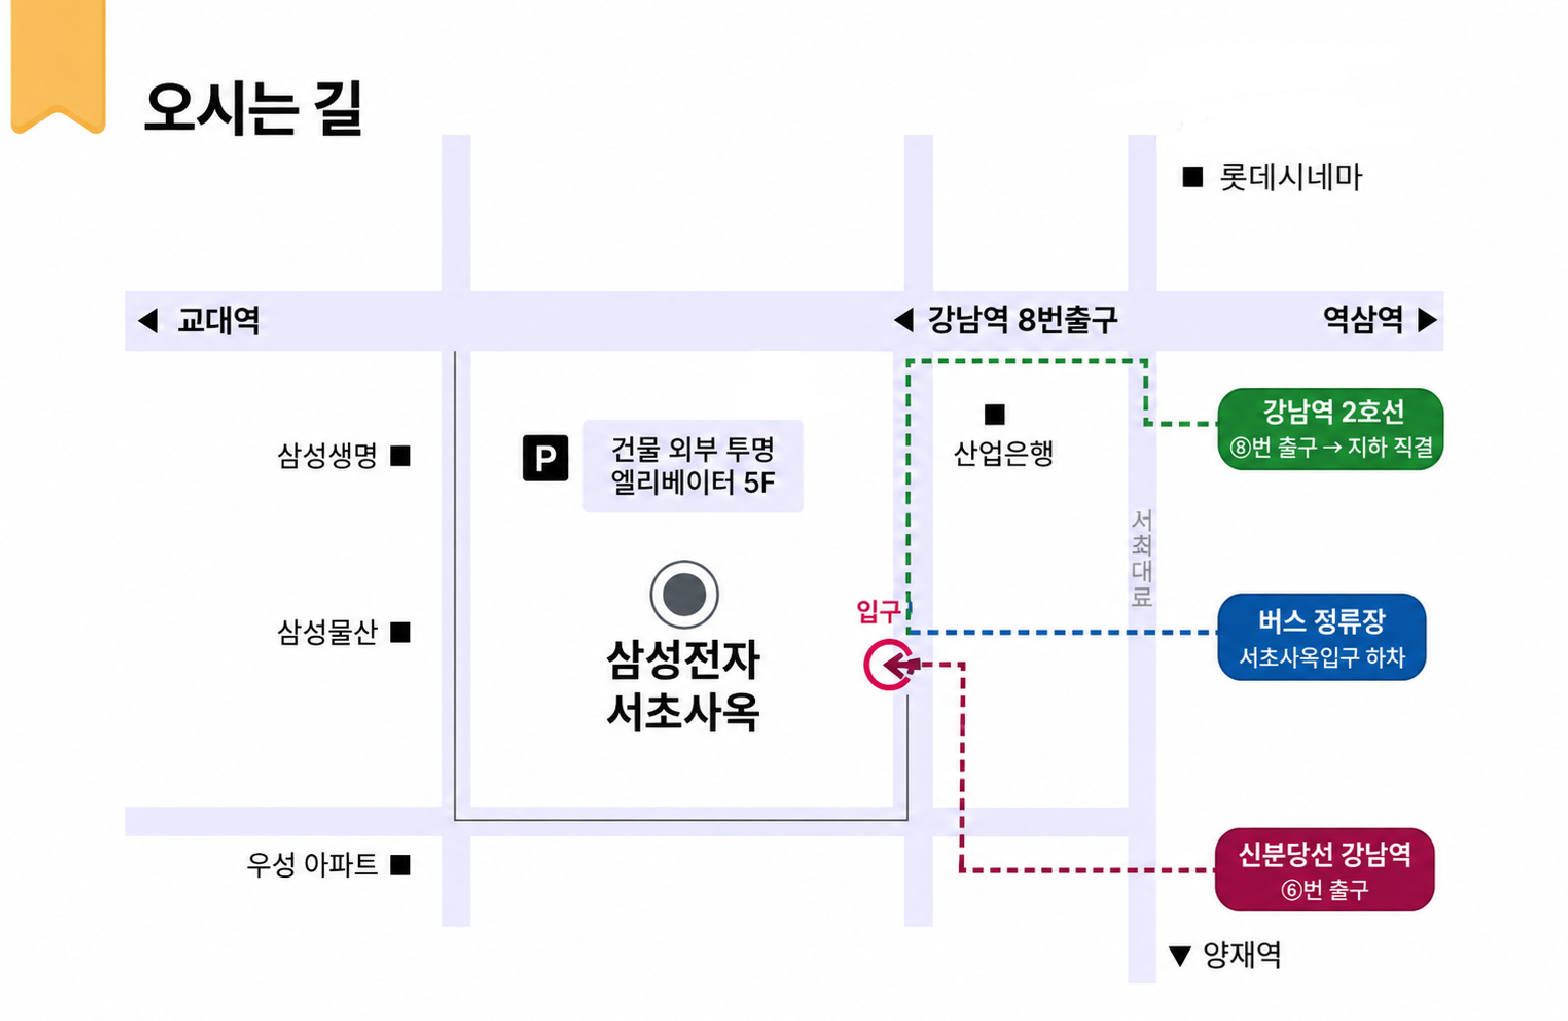
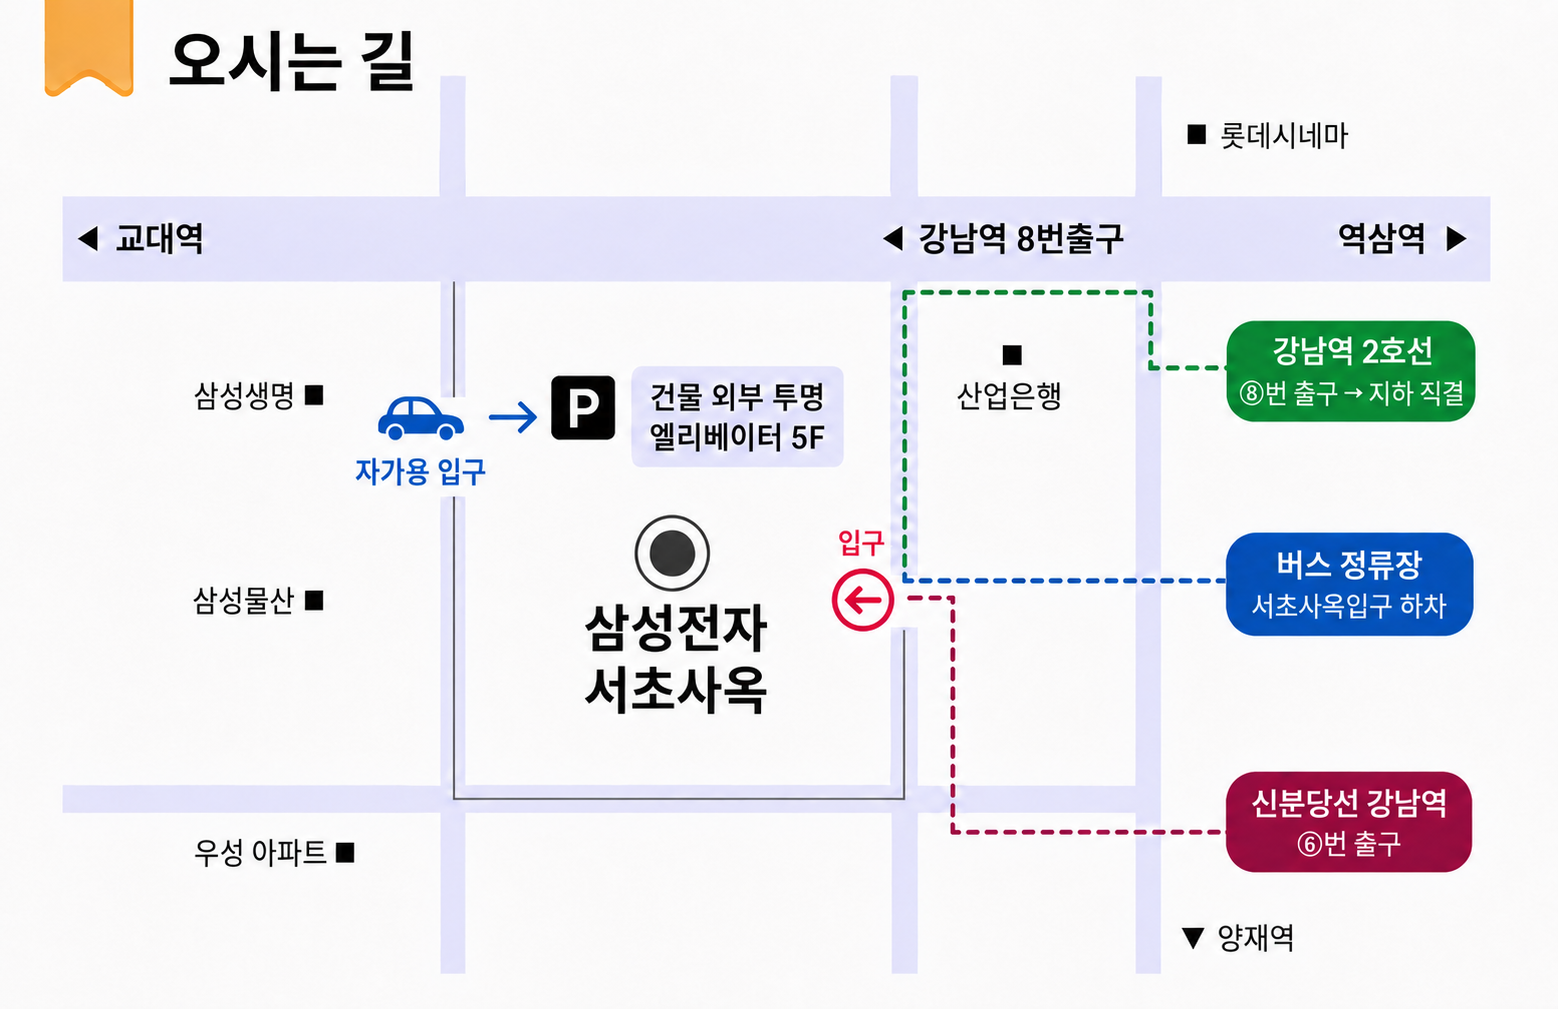
일단 몇개라도 살린다...

diff --git a/src/components/Rsvp.tsx b/src/components/Rsvp.tsx
@@ -176,10 +176,12 @@ export default function Rsvp() {
               </button>
             </div>
 
-            <p style={{ textAlign: 'center', fontSize: '0.85rem', color: 'var(--text-light)', lineHeight: 1.9, marginBottom: '28px' }}>
-              원활한 예식 진행을 위해 참석 정보를<br />
-              미리 알려주시면 감사하겠습니다.
-            </p>
+            {!submitted && (
+              <p style={{ textAlign: 'center', fontSize: '0.85rem', color: 'var(--text-light)', lineHeight: 1.9, marginBottom: '28px' }}>
+                원활한 예식 진행을 위해 참석 정보를<br />
+                미리 알려주시면 감사하겠습니다.
+              </p>
+            )}
 
             {submitted ? (
               <p style={{ textAlign: 'center', color: 'var(--point-color)', padding: '48px 0', fontSize: '1rem' }}>

diff --git a/src/components/Transportation.tsx b/src/components/Transportation.tsx
@@ -16,17 +16,19 @@ const transportInfo: { icon: string; title: string; lines: Line[] }[] = [
     title: '버스',
     lines: [
       '강남역 정류장 도보 2분',
-      { text: '간선: 146, 341, 360, 740', dot: '#4A90D9' },
-      { text: '지선: 3412, 4412, 4413', dot: '#4CAF50' },
+      { text: '간선: 146, 341, 360, 740', dot: '#087af5' },
+      { text: '지선: 0411, 3412, 4312', dot: '#209f24' },
+      { text: '마을: 서초03, 서초11', dot: '#7fdc88' },
     ],
   },
   {
     icon: '🚗',
     title: '자가용',
     lines: [
+      '내비게이션 "삼성전자 서초사옥 주차장"',
       '지하주차장 6, 7층 이용',
-      '접수대에 비치된 무료 주차 도장 날인',
-      '주차장 입구는 약도에 표시되어 있습니다.'
+      '주차장 입구는 약도에 표시되어 있습니다.',
+      '* 축의대에 비치된 무료 주차 도장 날인',
     ],
   },
 ]

diff --git a/index.html b/index.html
@@ -21,7 +21,7 @@
   <link rel="preconnect" href="https://fonts.googleapis.com">
   <link rel="preconnect" href="https://fonts.gstatic.com" crossorigin>
   <link
-    href="https://fonts.googleapis.com/css2?family=Gowun+Dodum&family=Noto+Sans+KR:wght@300;400;500;700&display=swap"
+    href="https://fonts.googleapis.com/css2?family=Cormorant+Garamond:ital,wght@0,300;0,400;0,500;0,600;1,300;1,400;1,500&family=Nanum+Myeongjo:wght@400;700&family=Noto+Sans+KR:wght@300;400;500&family=Space+Mono:wght@400;700&display=swap"
     rel="stylesheet">
 
   <title> Jiseon❤️JaeJoon </title>
@@ -29,7 +29,7 @@
   <!-- 링크 공유 시 미리보기 (Open Graph) -->
   <meta property="og:type" content="website" />
   <meta property="og:title" content="지선 ❤️ 재준 결혼합니다" />
-  <meta property="og:description" content="2026년 9월 19일 토요일 오후 1시 삼성전자 서초사옥 5층" />
+  <meta property="og:description" content="2026년 9월 19일 토요일 오후 1시, 삼성전자 서초사옥 5층" />
   <meta property="og:image" content="https://jiseon-jaejoon.github.io/Image/Mobile_Main.webp" />
   <meta property="og:url" content="https://jiseon-jaejoon.github.io" />
 